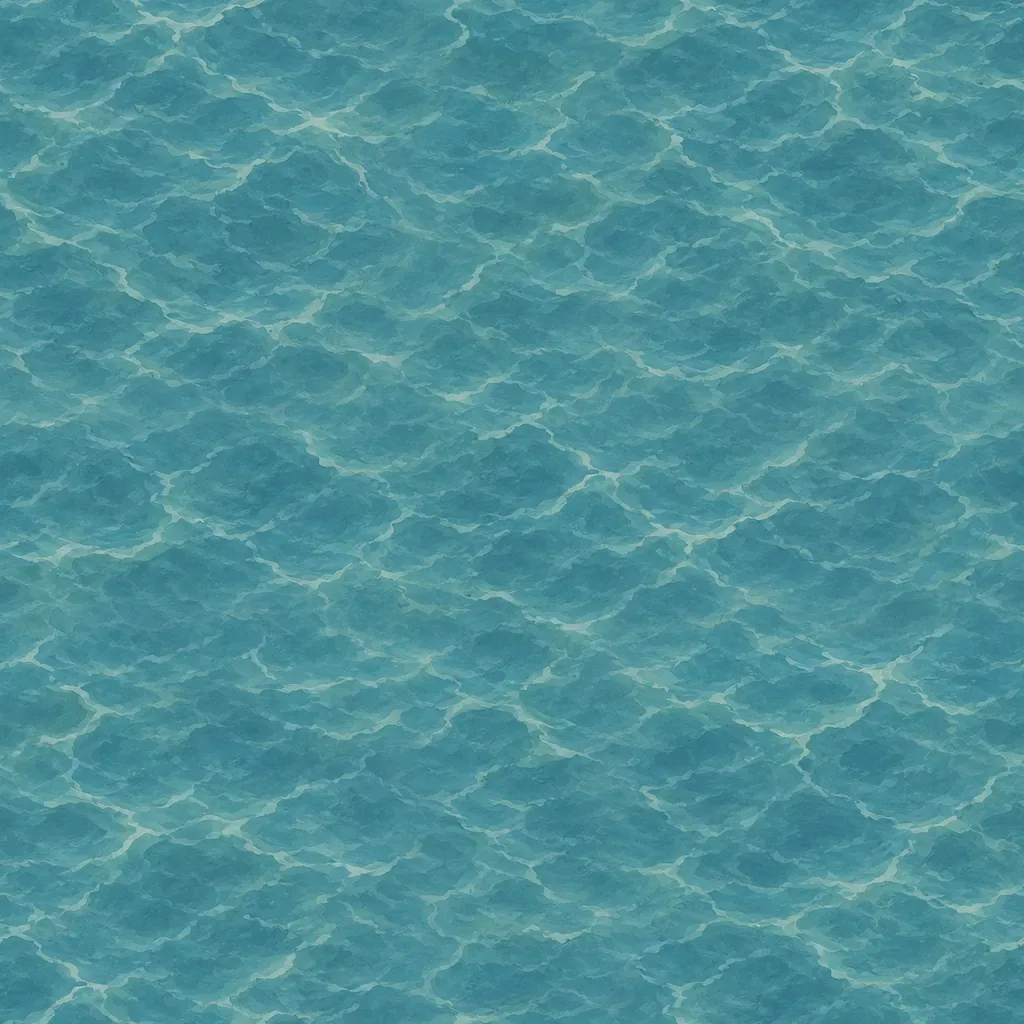
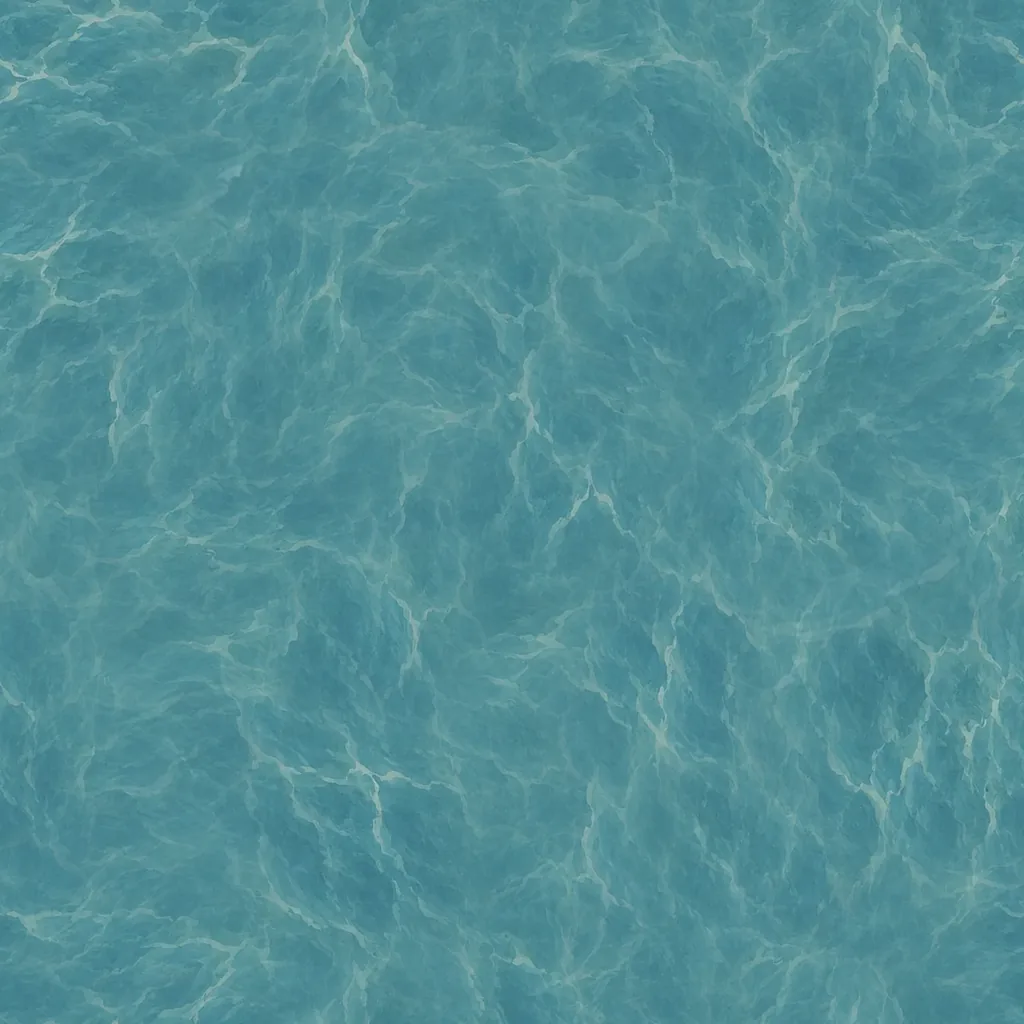
Море без заметной периодичности: плитка из случайно повёрнутых кусков исходника, второй слой волн повёрнут на 90°
Claude-Session: https://claude.ai/code/session_01GYZTpVpHB6EzyvMrXyiWEP

diff --git a/apps/web/src/styles/player.css b/apps/web/src/styles/player.css
@@ -17,8 +17,10 @@
 .sea-base, .sea-waves { position: absolute; inset: 0; background-image: var(--sea, url("/img/brand/sea-512.webp")); background-position: 0 0; background-size: var(--tile, 512px) var(--tile, 512px); background-repeat: repeat; }
 /* Вторая плитка крупнее в 1.37 раза и плывёт: периоды двух слоёв не кратны, повтор рисунка глазу не виден.
    Дрейф — трансформация композитора. */
-.sea-waves { opacity: .4; background-size: calc(var(--tile, 512px) * 1.37) calc(var(--tile, 512px) * 1.37); background-position: calc(var(--tile, 512px) / 3) calc(var(--tile, 512px) / 5); animation: sea-drift 90s linear infinite; will-change: transform; }
-@keyframes sea-drift { to { transform: translate(calc(var(--tile, 512px) * 1.37), calc(var(--tile, 512px) * 1.37)); } }
+/* Второй слой повёрнут на 90° и растянут за края квадрата .sea-pos: его повтор не совпадает с повтором первого ни по шагу, ни по направлению. */
+.sea-waves { opacity: .4; inset: -25%; background-size: calc(var(--tile, 512px) * 1.37) calc(var(--tile, 512px) * 1.37); background-position: calc(var(--tile, 512px) / 3) calc(var(--tile, 512px) / 5); animation: sea-drift 90s linear infinite; will-change: transform; }
+@keyframes sea-drift { from { transform: rotate(90deg) translate(0, 0); } to { transform: rotate(90deg) translate(calc(var(--tile, 512px) * 1.37), calc(var(--tile, 512px) * 1.37)); } }
+@media (prefers-reduced-motion: reduce) { .sea-waves { transform: rotate(90deg); } }
 @media (prefers-reduced-motion: reduce) { .sea-waves { animation: none; } }
 .coast { pointer-events: none; }
 .coast-wet { stroke-width: calc(1.2px / var(--k, 1)); }

diff --git a/scripts/sea-tile.py b/scripts/sea-tile.py
@@ -1,0 +1,66 @@
+"""Бесшовная плитка моря без заметной периодичности: из исходника apps/web/public/img/brand/sea.webp собирается
+мозаика случайно повёрнутых и отражённых кусков с мягкими краями (у исходника волны лежат ровной ромбической
+решёткой, и при замощении её видно), затем плитка делается бесшовной сдвигом на полплитки с перекрёстным
+растворением швов. Пишет sea-1024.webp и sea-512.webp. Запуск из корня: python3 scripts/sea-tile.py (Pillow)."""
+import random
+from PIL import Image, ImageFilter, ImageEnhance
+
+random.seed(7)
+SRC = Image.open("apps/web/public/img/brand/sea.webp").convert("RGB")
+S = SRC.width
+N = 1024
+
+def feather_mask(w, h, edge):
+    m = Image.new("L", (w, h), 255)
+    # мягкая рамка: линейное затухание к краям
+    px = m.load()
+    for y in range(h):
+        for x in range(w):
+            d = min(x, y, w - 1 - x, h - 1 - y)
+            if d < edge: px[x, y] = int(255 * d / edge)
+    return m
+
+def patch():
+    size = random.randint(380, 620)
+    x = random.randint(0, S - size); y = random.randint(0, S - size)
+    p = SRC.crop((x, y, x + size, y + size))
+    if random.random() < 0.5: p = p.transpose(Image.FLIP_LEFT_RIGHT)
+    if random.random() < 0.5: p = p.transpose(Image.FLIP_TOP_BOTTOM)
+    # поворот на случайный угол: у исходника есть выделенное направление, его надо размыть
+    p = p.rotate(random.uniform(0, 360), resample=Image.BICUBIC, expand=False)
+    c = int(size * 0.68)  # центральная часть без чёрных углов от поворота
+    o = (size - c) // 2
+    p = p.crop((o, o, o + c, o + c))
+    return p
+
+# Холст в два раза больше плитки, чтобы куски перекрывали края; замощение по тору достигается позже.
+W = N * 2
+canvas = SRC.resize((W, W), Image.LANCZOS)  # подложка — растянутый исходник (полностью перекроется кусками)
+for i in range(260):
+    p = patch()
+    m = feather_mask(p.width, p.height, int(p.width * 0.35))
+    x = random.randint(-p.width // 2, W - p.width // 2); y = random.randint(-p.height // 2, W - p.height // 2)
+    canvas.paste(p, (x, y), m)
+tile = canvas.crop((N // 2, N // 2, N // 2 + N, N // 2 + N))
+
+# Бесшовность: сдвиг на полплитки и растворение крестообразного шва широкой мягкой полосой.
+def make_seamless(t, band):
+    n = t.width
+    shifted = Image.new("RGB", (n, n))
+    shifted.paste(t.crop((n // 2, n // 2, n, n)), (0, 0)); shifted.paste(t.crop((0, n // 2, n // 2, n)), (n // 2, 0))
+    shifted.paste(t.crop((n // 2, 0, n, n // 2)), (0, n // 2)); shifted.paste(t.crop((0, 0, n // 2, n // 2)), (n // 2, n // 2))
+    # маска шва: 255 вдоль центральных линий, к краям полосы затухает
+    m = Image.new("L", (n, n), 0); px = m.load()
+    for y in range(n):
+        for x in range(n):
+            d = min(abs(x - n // 2), abs(y - n // 2))
+            if d < band: px[x, y] = int(255 * (1 - d / band) ** 1.5)
+    filler = t.rotate(90)  # чем закрываем шов: тот же материал, повёрнутый, чтобы не повторять сдвинутое
+    return Image.composite(filler, shifted, m)
+
+tile = make_seamless(tile, 150)
+# Чуть мягче контраст бликов: именно светлые гребни складываются в заметную решётку.
+tile = ImageEnhance.Contrast(tile).enhance(0.9)
+tile.save("apps/web/public/img/brand/sea-1024.webp", "WEBP", quality=82, method=6)
+tile.resize((512, 512), Image.LANCZOS).save("apps/web/public/img/brand/sea-512.webp", "WEBP", quality=82, method=6)
+print("ok")

diff --git a/apps/web/public/img/brand/README.md b/apps/web/public/img/brand/README.md
@@ -9,4 +9,4 @@
 
 Чтобы заменить логотип, положите новый `logo.png` (квадрат, прозрачный фон) и перегенерируйте размеры (см. `scripts/brand-assets.py`).
 
-Фоны: `bg-tile.webp` — замощение страниц (пергамент с гексами), `sea.webp` — исходник моря; `sea-512.webp` и `sea-1024.webp` — бесшовные плитки из него (зеркальная сборка 2×2, для обычной и высокой плотности пикселей), именно они используются на карте, `hero.webp` — панорама за страницей входа. Исходники PNG в истории репозитория.
+Фоны: `bg-tile.webp` — замощение страниц (пергамент с гексами), `sea.webp` — исходник моря; `sea-512.webp` и `sea-1024.webp` — бесшовные плитки из него (мозаика случайно повёрнутых кусков со сдвигом и растворением швов, скрипт `scripts/sea-tile.py`; у исходника волны лежат ровной решёткой, и при замощении её было видно), именно они используются на карте, `hero.webp` — панорама за страницей входа. Исходники PNG в истории репозитория.
